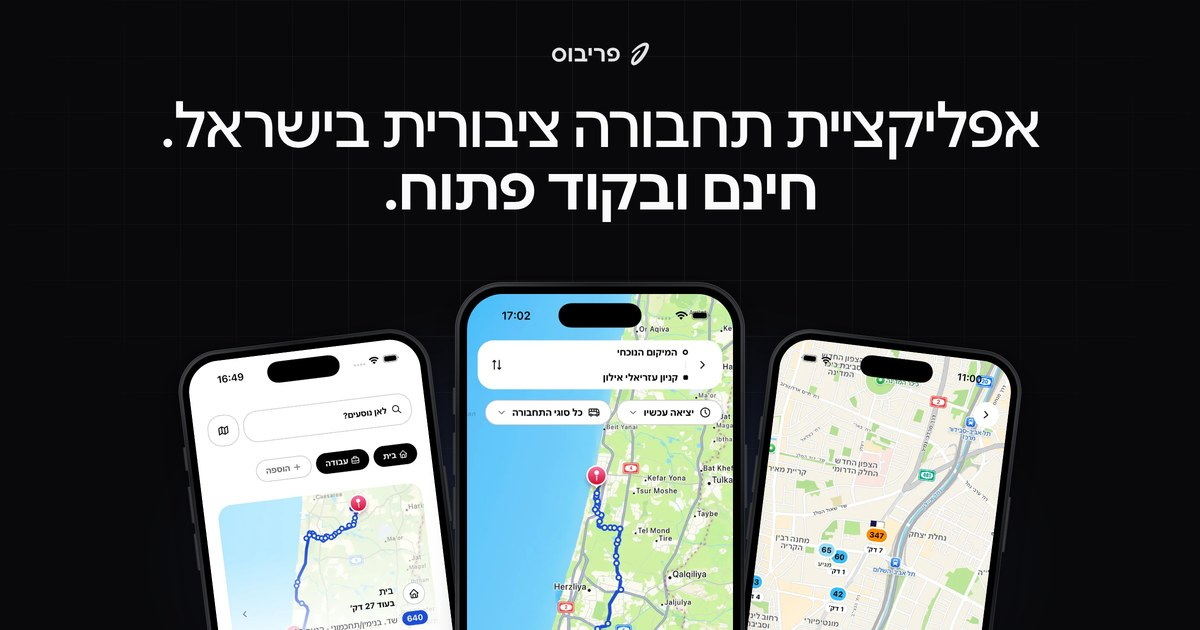
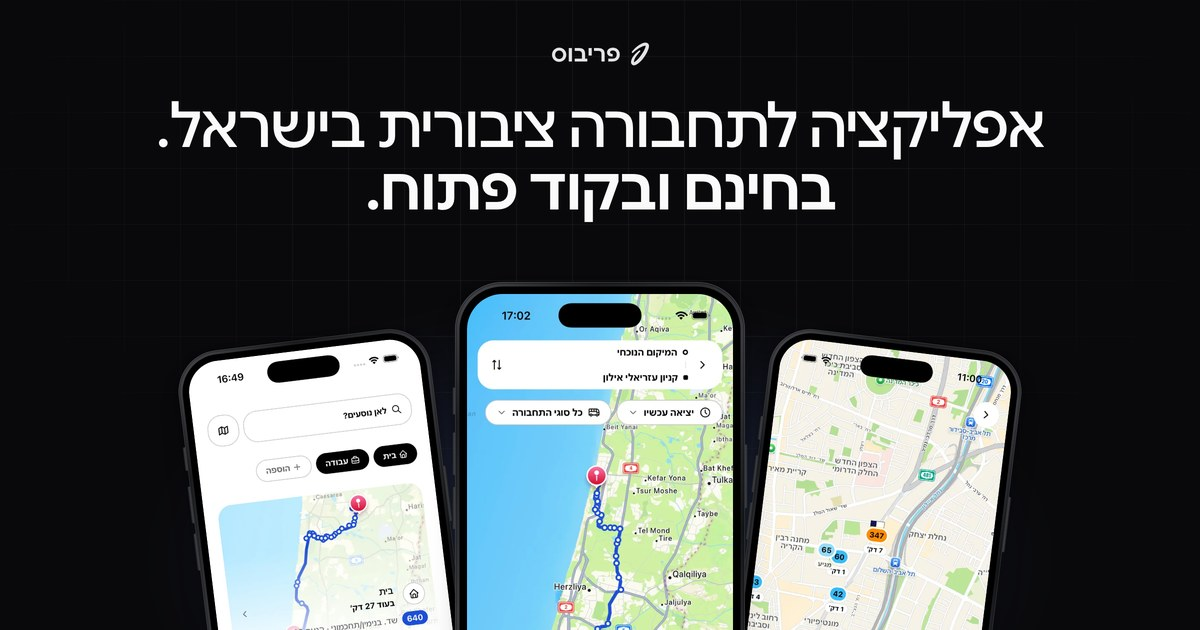
Improve Hebrew landing page copy

Changed region(s): [[0.1233, 0.1508, 0.8942, 0.2714], [0.3083, 0.2714, 0.7092, 0.3619], [0.1233, 0.1508, 0.1542, 0.181]]

diff --git a/lib/i18n.ts b/lib/i18n.ts
@@ -76,65 +76,65 @@ export type Dict = Record<keyof typeof en, string>;
 const he: Dict = {
   brand: "פריבוס",
   title: "פריבוס",
-  description: "פריבוס הוא יישום חינמי בקוד פתוח לתחבורה ציבורית בישראל, עם תכנון נסיעות, לוחות יציאה ומיקומי אוטובוסים בזמן אמת.",
-  ogDescription: "יישום חינמי בקוד פתוח לתחבורה ציבורית בישראל. תכנון נסיעות, לוחות יציאה ומיקומי אוטובוסים בזמן אמת.",
+  description: "פריבוס, אפליקציה חינמית בקוד פתוח לתחבורה ציבורית בישראל. מתכננים נסיעה, בודקים מתי הקו מגיע ורואים איפה האוטובוס בזמן אמת, כשיש מידע זמין.",
+  ogDescription: "פריבוס, אפליקציה חינמית בקוד פתוח לתחבורה ציבורית בישראל. מתכננים נסיעה, בודקים מתי הקו מגיע ורואים איפה האוטובוס בזמן אמת, כשיש מידע זמין.",
   switchTo: "English",
-  h1a: "אפליקציית תחבורה ציבורית בישראל.",
-  h1b: "חינם ובקוד פתוח.",
-  lede: "פריבוס מאפשר לתכנן נסיעות באוטובוסים, ברכבות וברכבת הקלה, לצפות בזמני יציאה מתחנות ולראות מיקומי אוטובוסים בזמן אמת כשיש נתונים זמינים. היישום מבוסס על נתונים ציבוריים של משרד התחבורה ועל מפות OpenStreetMap. קוד המקור זמין ב-GitHub ברישיון MIT.",
-  ctaGithub: "לצפייה בקוד ב-GitHub",
-  noAccount: "אין צורך בחשבון. ללא פרסומות.",
+  h1a: "אפליקציה לתחבורה ציבורית בישראל.",
+  h1b: "בחינם ובקוד פתוח.",
+  lede: "עם פריבוס אפשר לתכנן נסיעה באוטובוס, ברכבת או ברכבת הקלה, לבדוק מתי הקו מגיע ולראות איפה האוטובוס בזמן אמת, כשיש מידע זמין.",
+  ctaGithub: "לקוד ב-GitHub",
+  noAccount: "בלי הרשמה. בלי פרסומות.",
   storesSoon: "בקרוב בחנויות האפליקציות",
   alt_home: "מסך הבית עם חיפוש יעד, קיצורי דרך למקומות שמורים ותחנות קרובות עם זמני יציאה",
-  alt_plan: "תכנון נסיעה עם מסלול על המפה, זמני יציאה והגעה, קטעי הליכה ואזהרה על החלפה בסיכון",
+  alt_plan: "תכנון נסיעה עם מסלול על המפה, זמני יציאה והגעה, קטעי הליכה ואזהרה שאולי לא תספיקו לקו הבא",
   alt_station: "לוח יציאות מתחנה עם זמני הגעה וסינון לפי קו או יעד",
   alt_realtime: "מפת תחנה בזמן אמת עם מיקומי האוטובוסים שבדרך, מספרי הקווים וזמני ההגעה המשוערים",
-  alt_lock: "פעילות חיה במסך הנעילה עם השלב הנוכחי בנסיעה, ספירה לאחור והתקדמות במסלול",
+  alt_lock: "עדכוני נסיעה במסך הנעילה עם השלב הנוכחי בנסיעה, ספירה לאחור והתקדמות במסלול",
   plan_phase: "לפני שיוצאים",
-  plan_t: "תכנון נסיעה",
-  plan_d: "מסלולים בין נקודת מוצא ליעד, עם זמני יציאה והגעה, הוראות הליכה והחלפות.",
-  leave_phase: "במהלך הנסיעה",
-  leave_t: "עדכונים במסך הנעילה",
-  leave_d: "מסך הנעילה מציג את השלב הנוכחי בנסיעה, ספירה לאחור והתקדמות במסלול, כולל מתי לצאת לתחנה.",
+  plan_t: "איך מגיעים?",
+  plan_d: "בוחרים מאיפה יוצאים ולאן רוצים להגיע, ורואים מתי לצאת, מתי מגיעים, איפה הולכים ברגל ואיפה מחליפים קו.",
+  leave_phase: "בדרך",
+  leave_t: "עדכוני הנסיעה במסך הנעילה",
+  leave_d: "רואים מה השלב הבא בנסיעה וכמה זמן נשאר עד אליו, ישר ממסך הנעילה, כולל מתי לצאת לתחנה.",
   board_phase: "בתחנה",
-  board_t: "יציאות מהתחנה",
-  board_d: "היציאות הקרובות מתחנה, עם אפשרות לסינון לפי קו ויעד.",
-  live_phase: "בסביבת התחנה",
-  live_t: "מיקומי אוטובוסים בזמן אמת",
-  live_d: "מפת התחנה מציגה את האוטובוסים המתקרבים, עם מספרי הקווים וזמני ההגעה המשוערים. המידע בזמן אמת מוצג כשיש נתונים זמינים.",
+  board_t: "מתי הקו שלי מגיע?",
+  board_d: "רואים אילו קווים צפויים להגיע בקרוב לתחנה, ואפשר לסנן לפי הקו או היעד שמעניין אתכם.",
+  live_phase: "מחכים לאוטובוס",
+  live_t: "איפה האוטובוס עכשיו?",
+  live_d: "רואים על המפה את האוטובוסים שבדרך לתחנה, עם מספרי הקווים וזמני ההגעה המשוערים.",
   yours_phase: "בין נסיעות",
-  yours_t: "מסך הבית",
-  yours_d: "מסך הבית מאפשר גישה מהירה לחיפוש יעד, למקומות שמורים ולתחנות קרובות עם זמני היציאה הקרובים.",
-  plan_p1: "יציאה עכשיו, יציאה בשעה שנבחרה או הגעה עד שעה שנבחרה",
-  plan_p2: "סינון לפי סוג תחבורה, כולל אוטובוס, רכבת ורכבת קלה",
-  plan_p3: "סימון החלפות בסיכון, לפי נתוני זמן אמת כשיש נתונים זמינים",
-  leave_p1: "תזכורות לבחירה: 10 דקות לפני היציאה וכשמגיע הזמן לצאת",
-  leave_p2: "פעילות חיה במסך הנעילה באייפון וב-Dynamic Island",
-  leave_p3: "התראה קבועה עם אותה ספירה לאחור באנדרואיד",
-  board_p1: "זמני הגעה בזמן אמת בירוק, וזמנים מתוכננים כשאין נתוני זמן אמת",
-  board_p2: "סינון לפי יעד להצגת קווים שמגיעים אליו ללא החלפה",
-  board_p3: "סינון להצגת יציאות של קו מסוים",
-  live_p1: "מיקומי האוטובוסים על המפה",
-  live_p2: "זמן ההגעה המשוער לתחנה שנבחרה",
-  live_p3: "המיקומים וזמני ההגעה בזמן אמת מוצגים בהתאם לזמינות נתוני משרד התחבורה",
-  yours_p1: "קיצורי דרך לבית, לעבודה ולמקומות שמורים נוספים",
-  yours_p2: "תחנות קרובות, המרחק אליהן והיציאות הקרובות",
-  yours_p3: "גישה מהירה למפה, לקווים, לתחנות ולהגדרות",
+  yours_t: "המקומות שלכם, בהישג יד",
+  yours_d: "חיפוש יעד, מקומות שמורים ותחנות קרובות. הכול במסך הבית.",
+  plan_p1: "אפשר לצאת עכשיו, לבחור שעת יציאה או לקבוע מתי רוצים להגיע.",
+  plan_p2: "בוחרים אם לנסוע באוטובוס, ברכבת או ברכבת הקלה.",
+  plan_p3: "רואים באילו החלפות יש סיכוי לפספס את הקו הבא, לפי מידע בזמן אמת כשיש.",
+  leave_p1: "אפשר להפעיל תזכורות 10 דקות לפני היציאה וכשמגיע הזמן לצאת.",
+  leave_p2: "באייפון, העדכונים מופיעים במסך הנעילה וב-Dynamic Island.",
+  leave_p3: "באנדרואיד, התראה קבועה מציגה כמה זמן נשאר עד השלב הבא.",
+  board_p1: "זמני הגעה שמתעדכנים בזמן אמת מופיעים בירוק. כשאין עדכונים, מוצגות השעות לפי לוח הזמנים.",
+  board_p2: "בוחרים יעד ורואים אילו קווים מגיעים אליו בלי להחליף.",
+  board_p3: "בוחרים קו ורואים את הנסיעות הקרובות שלו.",
+  live_p1: "רואים איפה האוטובוס נמצא.",
+  live_p2: "בודקים בעוד כמה זמן הוא צפוי להגיע לתחנה.",
+  live_p3: "המידע בזמן אמת זמין כשמתקבלים עדכונים ממשרד התחבורה.",
+  yours_p1: "קיצורי דרך לבית, לעבודה ולעוד מקומות ששמרתם.",
+  yours_p2: "תחנות לידכם, המרחק אליהן והקווים שעוברים בהן בקרוב.",
+  yours_p3: "מעבר מהיר למפה, לקווים, לתחנות ולהגדרות.",
   opsTitle: "כל המפעילים ביישום אחד",
-  opsSub: "המסלולים והזמנים מגיעים מלוח הזמנים הארצי של משרד התחבורה, שכולל את כל מפעילי התחבורה הציבורית בישראל.",
-  ctbEyebrow: "תרומה לפרויקט",
-  ctbTitle: "חסר לנו משהו?",
-  ctbSub: "אם יש פיצ'ר שתמיד רציתם, אפשר להוסיף אותו בעצמכם. פריבוס הוא קוד פתוח ומפותח בגלוי ב-GitHub.",
-  ctb1t: "מציעים",
-  ctb1d: "פותחים issue ומתארים מה הייתם רוצים לראות, כדי שאחרים יוכלו להגיב.",
-  ctb2t: "בונים",
-  ctb2d: "עושים fork לריפו ומריצים את היישום, את ה-API ואת ה-gtfs על המחשב שלכם.",
-  ctb3t: "שולחים",
-  ctb3d: "פותחים pull request ואחרי שהוא יתמרג׳ יצא עדכון לכל משתמשי פריבוס.",
-  ctbIssue: "להצעת רעיון",
-  ctbGuide: "מדריך התרומה",
-  ctaSub: "חופשי לשימוש, לקריאה ולשינוי ברישיון MIT.",
-  ctaTitle: "קוד המקור ב-GitHub",
+  opsSub: "קווים של חברות התחבורה הציבורית ברחבי ישראל, עם מסלולים ולוחות זמנים ממשרד התחבורה.",
+  ctbEyebrow: "עוזרים לשפר את פריבוס",
+  ctbTitle: "יש משהו שחסר לכם?",
+  ctbSub: "יש לכם רעיון לשיפור? נשמח לשמוע. הקוד של פריבוס פתוח לכולם ב-GitHub, ואפשר גם להצטרף לפיתוח.",
+  ctb1t: "מציעים רעיון",
+  ctb1d: "פותחים הצעה ב-GitHub ומספרים מה הייתם רוצים להוסיף או לשפר.",
+  ctb2t: "מפתחים",
+  ctb2d: "מורידים עותק של הקוד ומתחילים לעבוד על השינוי. במדריך למפתחים מוסבר איך להריץ את הפרויקט על המחשב.",
+  ctb3t: "שולחים לבדיקה",
+  ctb3d: "שולחים את השינוי לבדיקה ב-GitHub באמצעות Pull Request. אחרי שיאושר וישולב בקוד, הוא יוכל להיכלל בעדכון הבא.",
+  ctbIssue: "להציע רעיון",
+  ctbGuide: "איך מצטרפים לפיתוח?",
+  ctaSub: "אפשר לעיין בקוד, להשתמש בו ולשנות אותו בהתאם לרישיון MIT.",
+  ctaTitle: "הקוד פתוח לכולם",
   license: "קוד פתוח ברישיון MIT. נתוני לוחות זמנים: משרד התחבורה.",
   mapAttribution: "נתוני מפה ©",
   mapContributors: "תורמי OpenStreetMap",

diff --git a/components/landing-page.tsx b/components/landing-page.tsx
@@ -166,7 +166,8 @@ export function LandingPage({ lang }: { lang: Lang }) {
             </div>
             <div>
               <Head eyebrow={t.live_phase} title={t.live_t} text={t.live_d} />
-              <Checklist items={[t.live_p1, t.live_p2, t.live_p3]} />
+              <Checklist items={lang === "he" ? [t.live_p1, t.live_p2] : [t.live_p1, t.live_p2, t.live_p3]} />
+              {lang === "he" && <p className="section-sub">{t.live_p3}</p>}
             </div>
           </div>
         </section>
